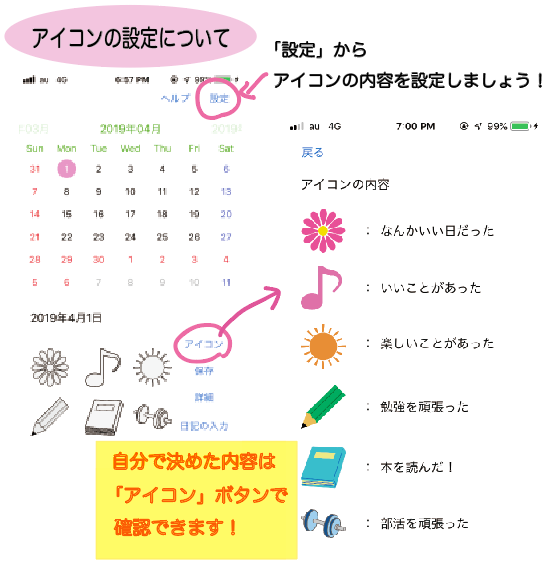
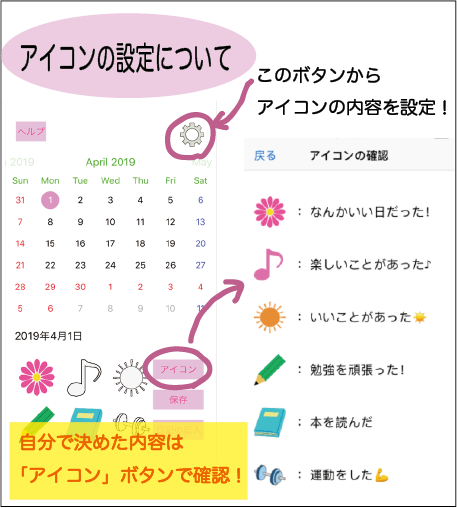
アイコン登録、ヘルプ画面のオートレイアウト変更、画像変更

diff --git a/SimpleDiary_LiT!/IconSettingViewController.swift b/SimpleDiary_LiT!/IconSettingViewController.swift
@@ -19,6 +19,13 @@ class IconSettingViewController: UIViewController {
     @IBOutlet var icon5ImageView: UIImageView!
     @IBOutlet var icon6ImageView: UIImageView!
     
+    var iconInfo1: String!
+    var iconInfo2: String!
+    var iconInfo3: String!
+    var iconInfo4: String!
+    var iconInfo5: String!
+    var iconInfo6: String!
+    
     var iconImage1: [UIImage]!
     var iconImage2: [UIImage]!
     var iconImage3: [UIImage]!
@@ -69,21 +76,51 @@ class IconSettingViewController: UIViewController {
         let icon = Icon()
         if iconNumber == 1 {
             icon.iconInfo1 = contextTextView.text
+            icon.iconInfo2 = iconInfo2
+            icon.iconInfo3 = iconInfo3
+            icon.iconInfo4 = iconInfo4
+            icon.iconInfo5 = iconInfo5
+            icon.iconInfo6 = iconInfo6
         }
         if iconNumber == 2 {
             icon.iconInfo2 = contextTextView.text
+            icon.iconInfo1 = iconInfo1
+            icon.iconInfo3 = iconInfo3
+            icon.iconInfo4 = iconInfo4
+            icon.iconInfo5 = iconInfo5
+            icon.iconInfo6 = iconInfo6
         }
         if iconNumber == 3 {
             icon.iconInfo3 = contextTextView.text
+            icon.iconInfo1 = iconInfo1
+            icon.iconInfo2 = iconInfo2
+            icon.iconInfo4 = iconInfo4
+            icon.iconInfo5 = iconInfo5
+            icon.iconInfo6 = iconInfo6
         }
         if iconNumber == 4 {
             icon.iconInfo4 = contextTextView.text
+            icon.iconInfo1 = iconInfo1
+            icon.iconInfo2 = iconInfo2
+            icon.iconInfo3 = iconInfo3
+            icon.iconInfo5 = iconInfo5
+            icon.iconInfo6 = iconInfo6
         }
         if iconNumber == 5 {
             icon.iconInfo5 = contextTextView.text
+            icon.iconInfo1 = iconInfo1
+            icon.iconInfo2 = iconInfo2
+            icon.iconInfo3 = iconInfo3
+            icon.iconInfo4 = iconInfo4
+            icon.iconInfo6 = iconInfo6
         }
         if iconNumber == 6 {
             icon.iconInfo6 = contextTextView.text
+            icon.iconInfo1 = iconInfo1
+            icon.iconInfo2 = iconInfo2
+            icon.iconInfo3 = iconInfo3
+            icon.iconInfo4 = iconInfo4
+            icon.iconInfo5 = iconInfo5
         }
         
         //STEP.3 Realmに書き込み
@@ -107,20 +144,20 @@ class IconSettingViewController: UIViewController {
         iconImage6 = [UIImage(named: "exercise1.png")!, UIImage(named: "exercise2.png")!]
     }
     
-//    override func viewWillAppear(_ animated: Bool) {
-//        super.viewWillAppear(animated)
-//
-//        DispatchQueue(label: "background").async {
-//            let realm = try! Realm()
-//
-//            if let savedIcon = realm.objects(Icon.self).last {
-//                let iconInfo1 = savedIcon.iconInfo1
-//                let iconInfo2 = savedIcon.iconInfo2
-//                let iconInfo3 = savedIcon.iconInfo3
-//                let iconInfo4 = savedIcon.iconInfo4
-//                let iconInfo5 = savedIcon.iconInfo5
-//                let iconInfo6 = savedIcon.iconInfo6
-//
+    override func viewWillAppear(_ animated: Bool) {
+        super.viewWillAppear(animated)
+        
+        DispatchQueue(label: "background").async {
+            let realm = try! Realm()
+            
+            if let savedIcon = realm.objects(Icon.self).last {
+                self.iconInfo1 = savedIcon.iconInfo1
+                self.iconInfo2 = savedIcon.iconInfo2
+                self.iconInfo3 = savedIcon.iconInfo3
+                self.iconInfo4 = savedIcon.iconInfo4
+                self.iconInfo5 = savedIcon.iconInfo5
+                self.iconInfo6 = savedIcon.iconInfo6
+                
 //                DispatchQueue.main.async {
 //                    self.contextTextView1.text = iconInfo1
 //                    self.contextTextView2.text = iconInfo2
@@ -129,7 +166,9 @@ class IconSettingViewController: UIViewController {
 //                    self.contextTextView5.text = iconInfo5
 //                    self.contextTextView6.text = iconInfo6
 //                }
-//            }
-//        }
-//    }
+            } else {
+                
+            }
+        }
+    }
 }
